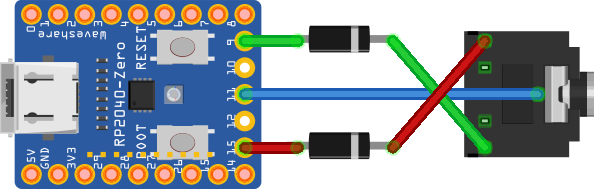
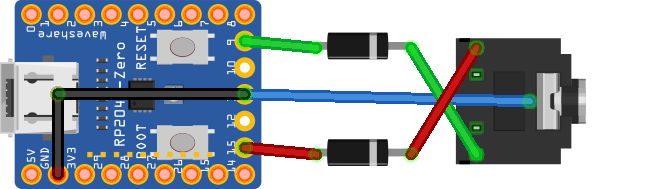
implemented automatic key type detectiion and added photos of fixed microcontroller

diff --git a/code.py b/code.py
@@ -1,27 +1,19 @@
-print("Starting")
-
 import board
 
 from kmk.kmk_keyboard import KMKKeyboard
 from kmk.keys import KC
 from kmk.scanners import DiodeOrientation
 
+from keymap import get_keymap
+
+keymap = get_keymap()
 keyboard = KMKKeyboard()
 
 keyboard.col_pins = (board.GP9, board.GP13,)
 keyboard.row_pins = (board.GP11,)
 keyboard.diode_orientation = DiodeOrientation.COL2ROW
 
-# Iambic
-iambic = [
-    [KC.Z, KC.X]
-]
-# Straight
-straight = [
-    [KC.SPC, KC.NO]
-]
-
-keyboard.keymap = iambic
+keyboard.keymap = keymap
 
 if __name__ == '__main__':
     keyboard.go()

diff --git a/keymap.py b/keymap.py
@@ -1,0 +1,21 @@
+import board
+import digitalio
+from kmk.keys import KC
+
+iambic = [
+    [KC.Z, KC.X]
+]
+straight = [
+    [KC.SPC, KC.NO]
+]
+
+def get_keymap():
+    trig = digitalio.DigitalInOut(board.GP13)
+    trig.direction = digitalio.Direction.INPUT
+    trig.pull = digitalio.Pull.UP
+    sense = trig.value
+    trig.deinit()
+    if not sense:
+        return(straight)
+    else:
+        return(iambic)

diff --git a/README.md b/README.md
@@ -1,5 +1,6 @@
 # Cw2Usb
 A small adaptor based on an RP2040-Zero microcontroller board, to connect a cw (morse) key to a computer.
+Supports both paddles and straight keys without any configuration!
 
 <img src="/Images/setup.png" width="50%" height="50%">
 
@@ -48,13 +49,11 @@ Learning cw is not an easy task, this adaptor enables you to train with friends 
     4. Reset the microcontroller by pressing the RESET button
 3. Installing the custom Code
     1. Download the [Cw2Usb](https://github.com/samux6146/Cw2Usb) repository
-    2. Copy the boot.py and code.py file to the root of the microcontroller's usb drive
+    2. Copy the boot.py, code.py and keymap.py file to the root of the microcontroller's usb drive
     3. Reset the microcontroller by pressing the RESET button
 4. You are done!
 
 ## Features
-1. Usb drive automatically disabled on boot
-2. Booting up the microcontroller with the dot pressed on the cw key mounts the usb drive for updates
-
-## Troubleshooting
-If the pins / cable / key is acting as a touch sensor connect the common pin (pin 11) to ground with a wire.
+1. Booting up the microcontroller with a straight key connected automaticly changes keymap (booting with the dash paddle pressed does the same)
+2. Usb drive automatically disabled on boot
+3. Booting up the microcontroller with the dot pressed on the cw key mounts the usb drive for updates
